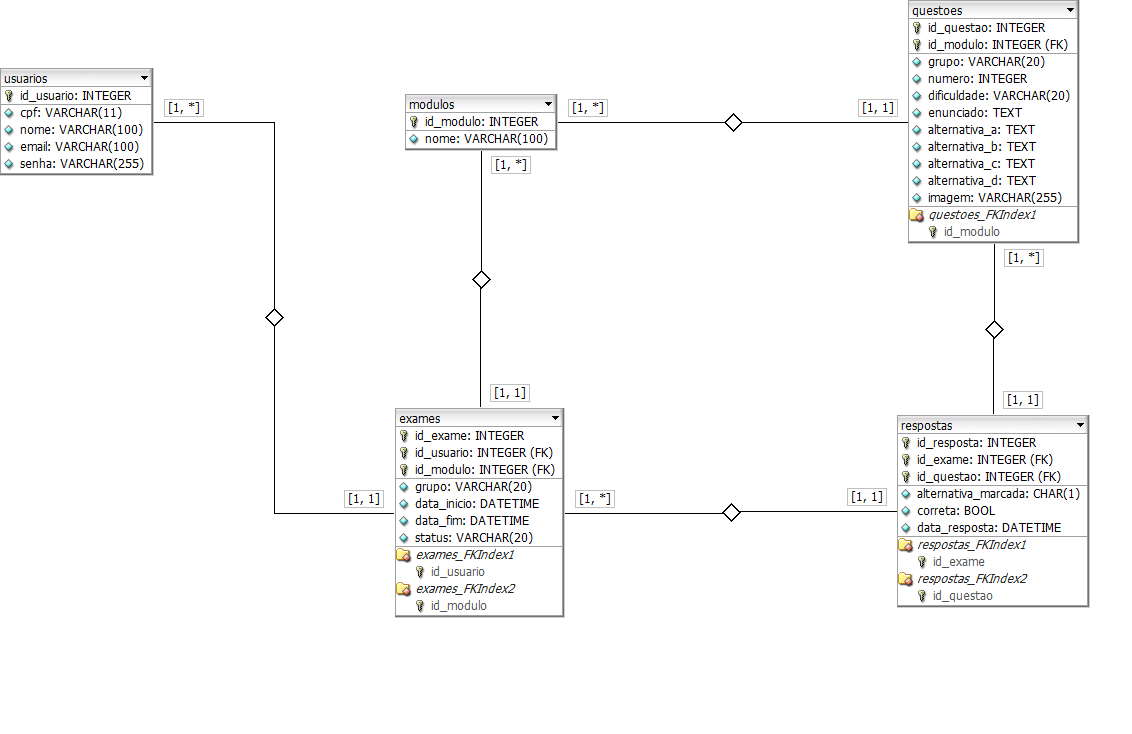
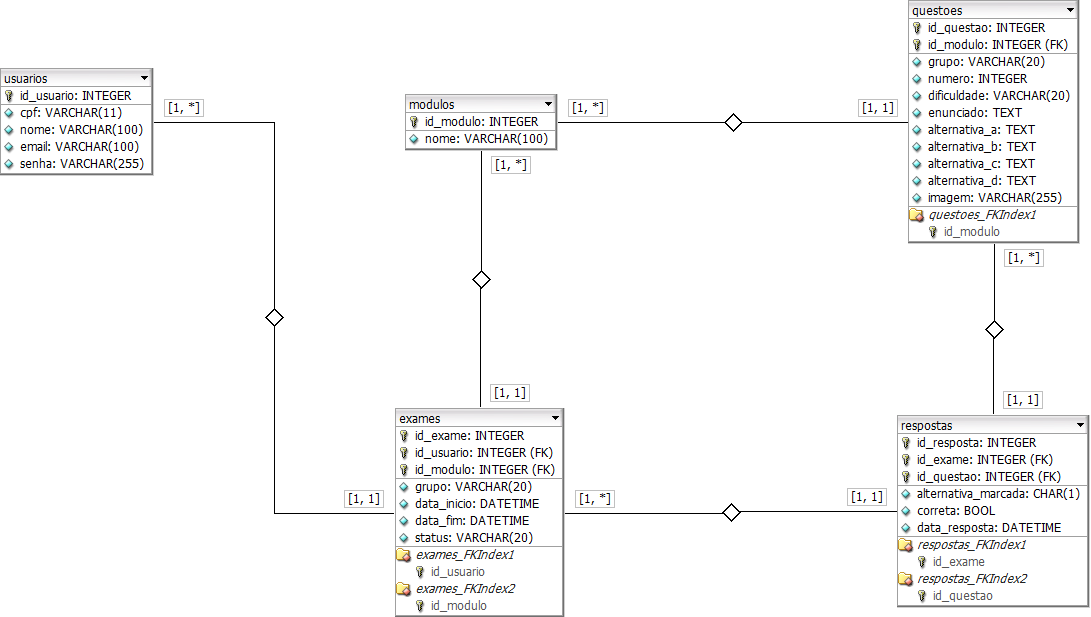
docs: documentar diagramas uml e modelo bd

diff --git a/docs/modelos/README.md b/docs/modelos/README.md
@@ -1,0 +1,106 @@
+# Modelos e Diagramas do Projeto
+
+Este documento reúne a documentação visual e técnica do **Portal de Certificação em Metodologias Ágeis**. Os diagramas detalham como os requisitos do edital e do backlog da sprint serão contemplados e estruturados.
+
+---
+
+## 👥 1. Casos de Uso (Visão Geral)
+**Arquivo:** `dcu_scrum.svg`
+
+O diagrama fornece a visão holística das interações do Usuário e do Sistema de Gerenciamento com a plataforma.
+*   O **Usuário** interage com fluxos vitais: Cadastrar (RF01), Logar com CPF (RF02), Avaliar Nível (RF05) e Consultar Progresso (RF11).
+*   O **Sistema de Gerenciamento** coordena fluxos ocultos de regra de negócio (back-end): Selecionar e Classificar questões (RF03, RF04), Limitar tentativas (RF06), Atribuir maior nota e calcular média (RF07, RF08), Manter histórico (RF10) e Emitir certificado (RF09). Essa separação reforça que toda lógica sensível fica isolada no servidor (RNF04). 
+*   O diagrama também prevê a extensão de Aprimorar informações (RF12).
+
+![Diagrama de Casos de Uso](uml/casos-de-uso/dcu_scrum.svg)
+
+---
+
+## 🔄 2. Diagramas de Classes e Sequência (Mapeamento por Requisito)
+
+Para garantir a rastreabilidade, cada Requisito Funcional (RF) do sistema foi modelado tanto do ponto de vista estrutural (Diagrama de Classes - dc) quanto comportamental (Diagrama de Sequência - ds).
+
+### RF01 - Cadastro de Usuário e RF02 - Login
+**Classes:** `RF01_dc_cadastro.svg`, `RF02_dc_login.svg` | **Sequência:** `RF01_ds_cadastro.svg`, `RF02_ds_login.svg`  
+**Descrição:** O pacote de classes `cad_user` abstrai as propriedades (CPF, Nome, e-mail, senha) e métodos (`cadastrar()`, `logar()`). A sequência demonstra a validação que restringe o login exclusivamente por CPF e senha (RF02) e assegura que o back-end processe esses dados (RP04).
+*RF01:*
+![DC Cadastro](uml/classes/RF01_dc_cadastro.svg)
+![DS Cadastro](uml/sequencia/RF01_ds_cadastro.svg)
+*RF02:*
+![DC Login](uml/classes/RF02_dc_login.svg)
+![DS Login](uml/sequencia/RF02_ds_login.svg)
+
+### RF03 - Seleção Aleatória e RF04 - Classificação de Questões
+**Classes:** `RF03_dc_questoes.svg`, `RF04_dc_classificar.svg` | **Sequência:** `RF03_ds_selecionar.svg`, `RF04_ds_classificar.svg`  
+**Descrição:** A classe `cad_questoes` expõe os métodos de negócio para embaralhar e agrupar perguntas. A sequência ilustra o Sistema de Gerenciamento acionando o método para pinçar 10 questões de um pool de 30 (RF03), e aplicando as tags fácil, médio ou difícil (RF04).
+*RF03:*
+![DC Questões](uml/classes/RF03_dc_questoes.svg)
+![DS Selecionar](uml/sequencia/RF03_ds_selecionar.svg)
+*RF04:*
+![DC Classificar](uml/classes/RF04_dc_classificar.svg)
+![DS Classificar](uml/sequencia/RF04_ds_classificar.svg)
+
+### RF05 - Composição da Avaliação e RF06 - Limite de Tentativas
+**Classes:** `RF05_dc_avaliar.svg`, `RF06_dc_tentativa.svg` | **Sequência:** `RF05_ds_avaliar.svg`, `RF06_ds_tentativa.svg`  
+**Descrição:** Nestes fluxos, a entidade intermedeia a geração da prova. A sequência apresenta a interface chamando a composição estrita de 3 Fáceis, 4 Médias e 3 Difíceis (RF05) e consolidando as respostas. O fluxo do RF06 enfatiza o método `limitar_tentativa()` barrando o acesso caso o limite máximo de 2 tentativas por nível tenha sido atingido (RF06).
+*RF05:*
+![DC Avaliar](uml/classes/RF05_dc_avaliar.svg)
+![DS Avaliar](uml/sequencia/RF05_ds_avaliar.svg)
+*RF06:*
+![DC Tentativa](uml/classes/RF06_dc_tentativa.svg)
+![DS Tentativa](uml/sequencia/RF06_ds_tentativa.svg)
+
+### RF07 - Maior Nota e RF08 - Média Final
+**Classes:** `RF07_dc_nota.svg`, `RF08_dc_media.svg` | **Sequência:** `RF07_ds_nota.svg`, `RF08_ds_media.svg`  
+**Descrição:** A lógica de cálculo é detalhada aqui. O sistema invoca `atribuir_maior_nota()` para selecionar o melhor desempenho entre as duas tentativas permitidas (RF07). Em seguida, a classe `cad_media_final` é acionada (`RF08_ds_media.svg`) para calcular a média global do usuário e verificar sua aprovação (RF08).
+*RF07:*
+![DC Nota](uml/classes/RF07_dc_nota.svg)
+![DS Nota](uml/sequencia/RF07_ds_nota.svg)
+*RF08:*
+![DC Média](uml/classes/RF08_dc_media.svg)
+![DS Média](uml/sequencia/RF08_ds_media.svg)
+
+### RF09 - Emissão de Certificado
+**Classes:** `RF09_dc_certificado.svg` | **Sequência:** `RF09_ds_certificado.svg`  
+**Descrição:** A classe de usuário comunica-se com a `cad_media_final` para obter a nota validada. A sequência demonstra a compilação dos dados (Nome, CPF, média) gerando o certificado apenas para usuários que completaram todos os níveis e foram aprovados (RF09).
+![DC Certificado](uml/classes/RF09_dc_certificado.svg)
+![DS Certificado](uml/sequencia/RF09_ds_certificado.svg)
+
+### RF10 - Histórico e RF11 - Progresso
+**Classes:** `RF10_dc_historico.svg`, `RF11_dc_progresso.svg` | **Sequência:** `RF10_ds_historico.svg`, `RF11_ds_progresso.svg`  
+**Descrição:** Para garantir a transparência do usuário na plataforma (US08). A classe de avaliação disponibiliza o método `exibir_historico()`, que traz as questões sorteadas e as datas no `RF10_ds_historico.svg`. O progresso geral (níveis concluídos e pendentes) é orquestrado na sequência do RF11.
+*RF10:*
+![DC Histórico](uml/classes/RF10_dc_historico.svg)
+![DS Histórico](uml/sequencia/RF10_ds_historico.svg)
+*RF11:*
+![DC Progresso](uml/classes/RF11_dc_progresso.svg)
+![DS Progresso](uml/sequencia/RF11_ds_progresso.svg)
+
+### RF12 - Área Administrativa (Requisito Opcional)
+**Classes:** `RF12_dc_aprimorar.svg` | **Sequência:** `RF12_ds_aprimorar.svg`  
+**Descrição:** Estende a funcionalidade do sistema. A classe `cad_questoes` e o fluxo sequencial detalham o administrador utilizando métodos como `cadastrar_questao()` e `atualizar_questao()`, garantindo a manutenção do banco de 30 questões sem a necessidade de intervenção direta via scripts de BD (US09).
+![DC Aprimorar](uml/classes/RF12_dc_aprimorar.svg)
+![DS Aprimorar](uml/sequencia/RF12_ds_aprimorar.svg)
+
+---
+
+## 💾 3. Modelagem de Banco de Dados
+
+Em conformidade com a restrição **RP02**, o banco de dados foi modelado exclusivamente para PostgreSQL, utilizando DDL e DML explícitos (sem uso de ORMs). Toda a persistência, como usuários, níveis, questões e resultados (RP04), é suportada pelos modelos abaixo.
+
+### 3.1 Modelo Conceitual (DER)
+**Arquivo:** `modelo_conceitual.jpg`  
+**Descrição e Confronto:** O Modelo Conceitual ilustra as entidades principais do domínio da aplicação e seus relacionamentos:
+*   **usuário:** Centraliza os dados de acesso (CPF, nome, email, senha), atendendo diretamente ao RF01 e às regras da LGPD (RNF03).
+*   **tentativa e resultado:** Relacionam-se ao usuário e ao nível para armazenar o histórico de avaliações (pontuação, timestamp), garantindo o rastreio exigido pelo RF10 e o cálculo da maior nota (RF07) e média final (RF08).
+*   **nível, questao e alternativa:** Estruturam o banco de perguntas. A relação indica que um nível possui várias questões, e estas possuem alternativas, suportando o controle de dificuldades exigido pelo RF04.
+
+![Modelo Conceitual](bd/modelo-conceitual/modelo_conceitual.jpg)
+
+### 3.2 Modelo Lógico
+**Arquivo:** `modelo_logico.png`  
+**Descrição e Confronto:** O Modelo Lógico traduz a visão conceitual para o formato relacional:
+*   **Tabelas Principais:** `usuarios`, `modulos` (níveis), `exames` (avaliações iniciadas), `questoes` e `respostas`.
+*   **Regras Embutidas:** O vínculo das Chaves Estrangeiras (FKs) entre `respostas` e `questoes` permite registrar a alternativa marcada (`alternativa_marcada`) e verificar se está correta (`correta: BOOL`), atendendo à necessidade do back-end auditar o histórico e calcular as notas com segurança para evitar fraudes (RNF04, RP04).
+
+![Modelo Lógico](bd/modelo-logico/modelo_logico.png)